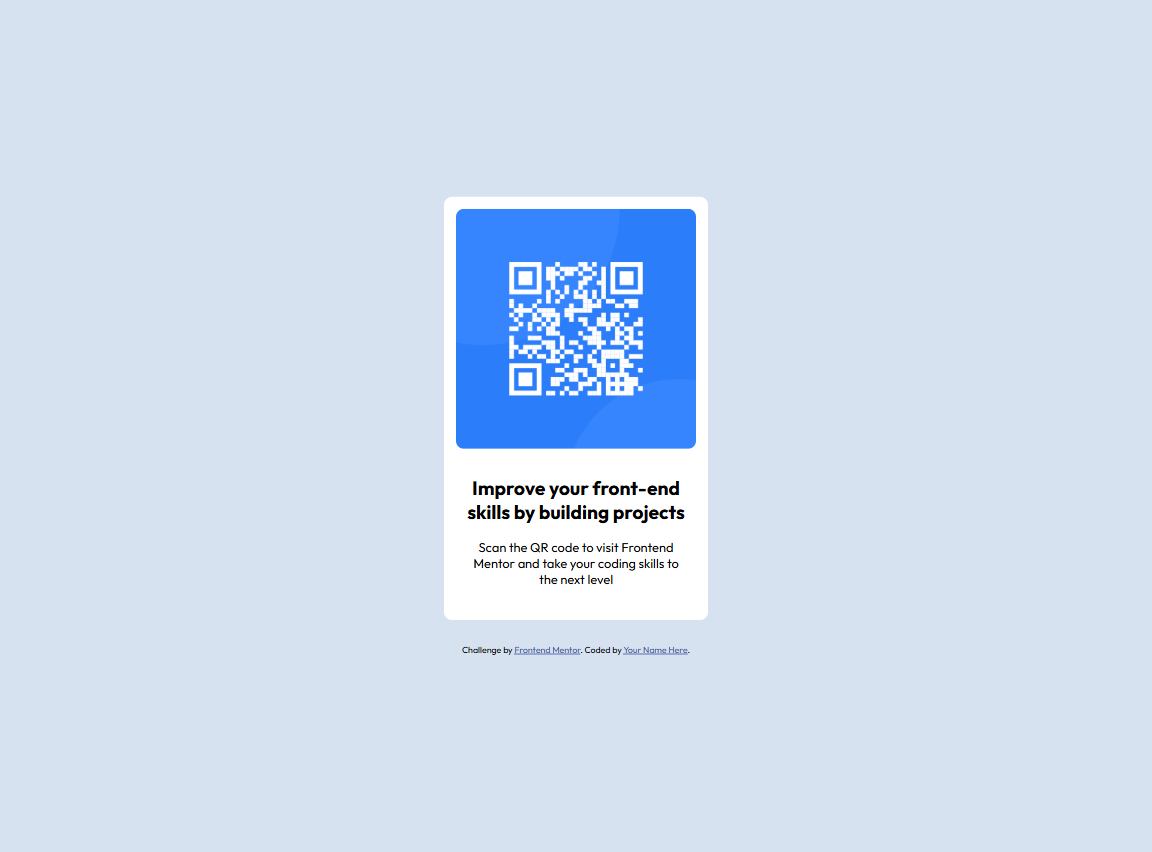
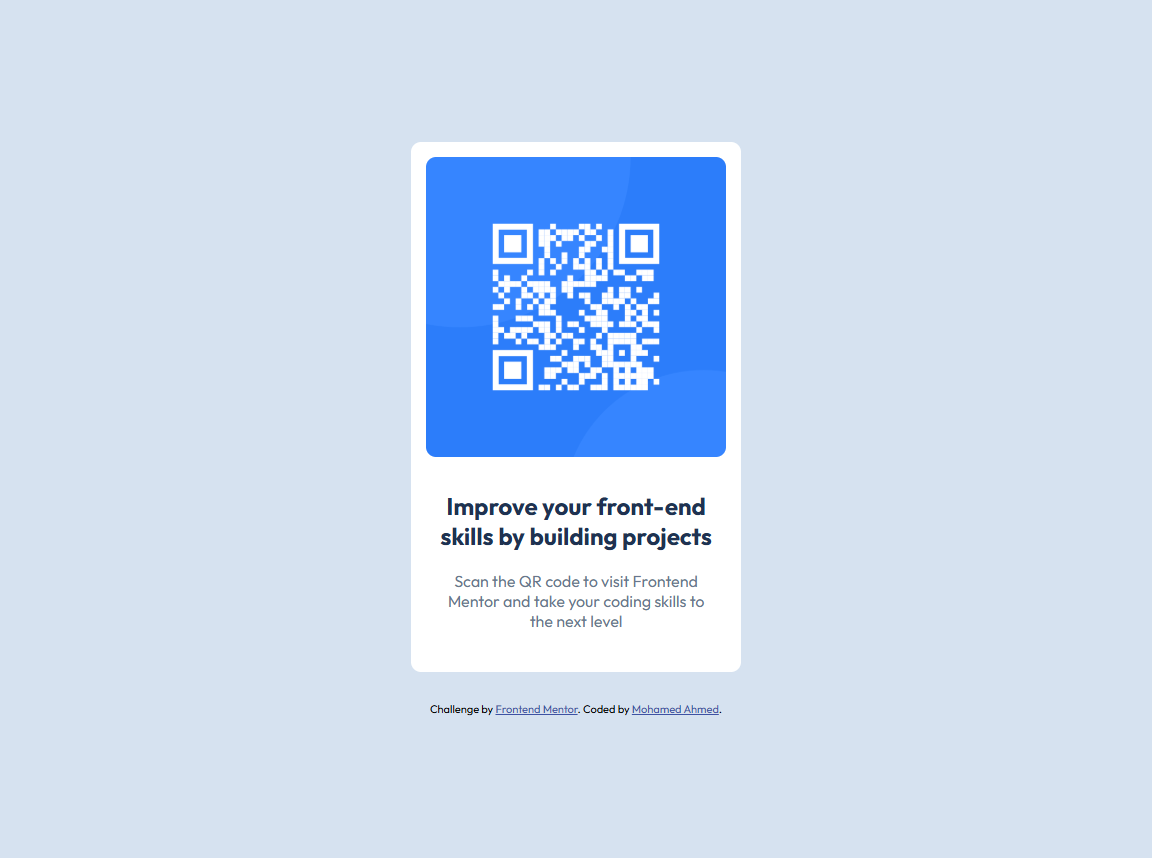
update color

Changed region(s): [[0.3438, 0.1526, 0.6562, 0.7934], [0.375, 0.8239, 0.625, 0.8545]]

diff --git a/style.css b/style.css
@@ -36,8 +36,12 @@ body {
           padding: 10px;
           text-align: center;
           h2 {
+            color: var(--Slate900);
+            font-weight: 700;
           }
           p {
+            font-weight: 400;
+            color: var(--Slate500);
           }
         }
       }
